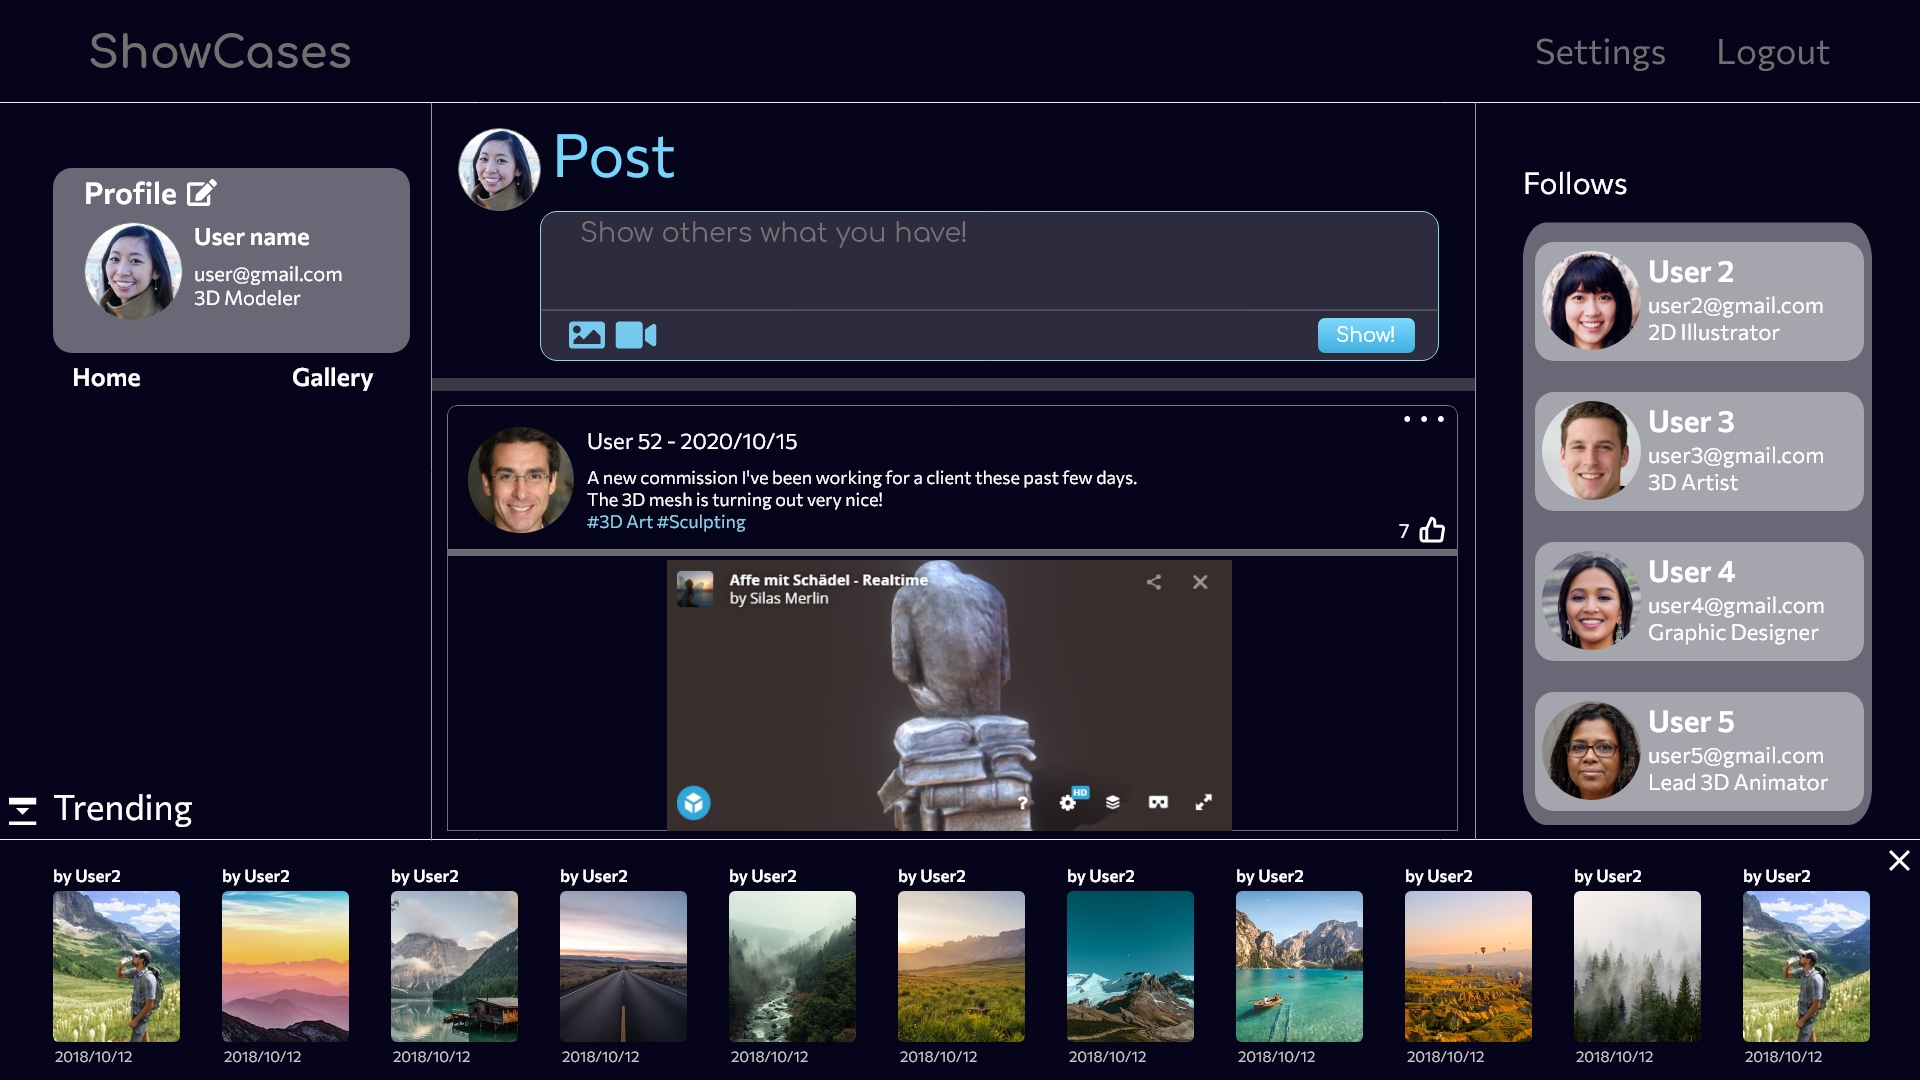
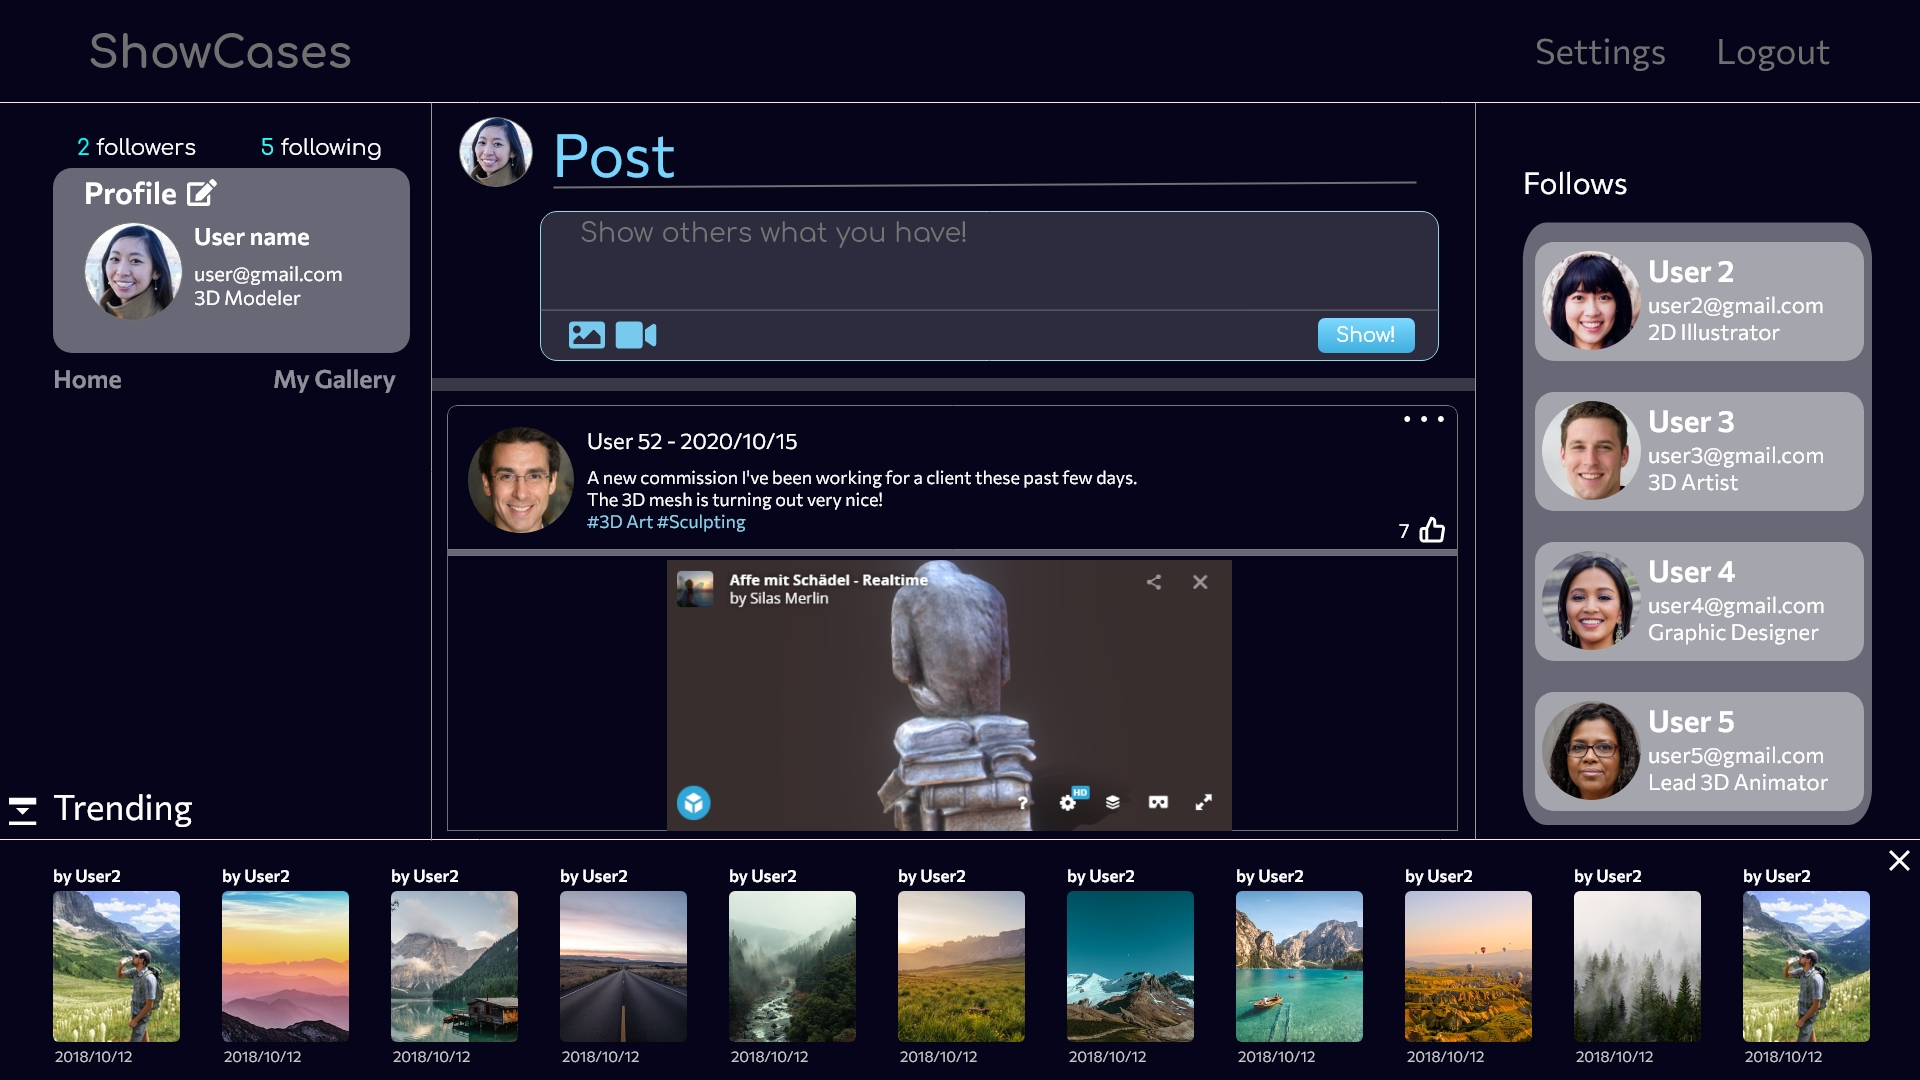
edited/added more wireframe

diff --git a/README.md b/README.md
@@ -3,6 +3,7 @@ A media sharing focused social platform
 
 ## Wireframe
 ![](public/assets/Presentation/Home.jpg)
+![](public/assets/Presentation/User_Gallery.jpg)
 
 ## User Story
 The user will enter a social media platform where they can follow and like the other's user posts.<br> 
@@ -16,6 +17,7 @@ The user can: <br>
     2. follow other artists (have their own follow sidebar). <br>
     3. read other artists' posts and their gallery. <br>
     4. go to their own gallery (which are their posts) and edit/delete them. 
+    5. see the number and see the followers and following other users. <br>
 
 The app can:
     1. allow user to close trending panel, which shows most liked posts in descending order. 
